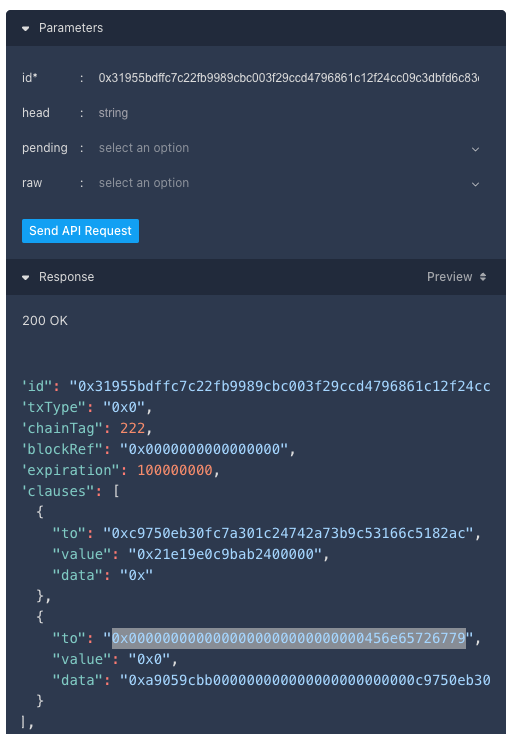
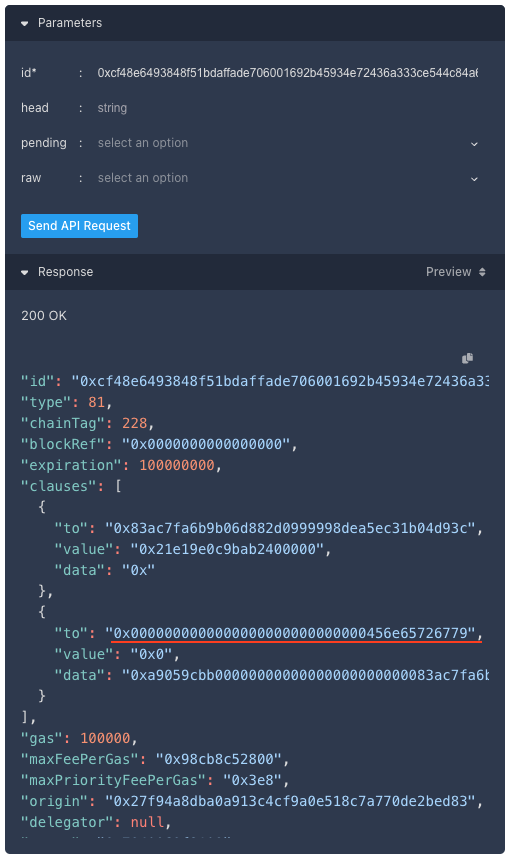
update thor galactica info (#7)
* update thor galactica info

* add info to start the node with custom genesis

diff --git a/.github/docs/README.md b/.github/docs/README.md
@@ -2,14 +2,24 @@
 
 This documentation is a work in progress and will be updated as new features are added.
 
-With the Galactica hardfork, the following API endpoints and flags are introduced.
+## Key concepts
+
+| Name | Description |
+|------|-------------|
+| **MaxFeePerGas** | The maximum total gas price a user is willing to pay for their transaction. |
+| **MaxPriorityFeePerGas** | The maximum tip a user is willing to pay validators to prioritize their transaction. |
+| **EffectiveGasPrice** | The final gas price charged when the transaction was executed. |
+| **EffectivePriorityPrice** | The final tip amount paid to the validator who included the transaction. |
+| **BaseFeePerGas** | The minimum gas price required for a transaction to be included in the current block.|
+
 
 ## Endpoints
 
-- `fees/history`: Similar to [`eth_feeHistory`](https://docs.metamask.io/services/reference/ethereum/json-rpc-methods/eth_feehistory/), this endpoint allows you to retrieve information about a range of block base fees and gas used ratios.
+- `fees/history`: Similar to [`eth_feeHistory`](https://docs.metamask.io/services/reference/ethereum/json-rpc-methods/eth_feehistory/), this endpoint allows you to retrieve information about a range of block base fees, gas used ratios and reward.
 
     _Request parameters_:
 
+    - `rewardPercentiles`: The percentiles of the rewards to be returned. Each percentile value must be between 0 and 100 and in ascending order. Values should be comma-separated. *For example: ?rewardPercentiles=25,50,75*
     - `blockCount`: The number of blocks to retrieve.
     - `newestBlock`: The highest block number to retrieve, its value is a `revision` following the existing VeChainThor endpoints.
 
@@ -17,10 +27,11 @@ With the Galactica hardfork, the following API endpoints and flags are introduce
     The range might not necessarily be `newestBlock` - `blockCount` if the oldest block does not exist or is not included due to the backtrace limit (see flags below for more details about this limit). `blockCount` can be higher than the backtrace limit, but the response will include only values within the valid range.
 
     - `oldestBlock`: The oldest block in the requested range.
-    - `baseFees`: An array of block base fees for the requested range.
-    - `gasUsedRatios`: An array of gas ratios (block gas used divided by the block gas limit) for the requested range.
+    - `baseFeePerGas`: An array of block base fees for the requested range.
+    - `gasUsedRatio`: An array of gas ratios (block gas used divided by the block gas limit) for the requested range.
+    - `reward`: An array of arrays of rewards by the percentiles provided in the request via *rewardPercentiles*. Each inner array contains the reward values for each percentile requested.
 
-- `fees/priority`: Similar to [`eth_maxPriorityFeePerGas`](https://docs.metamask.io/services/reference/ethereum/json-rpc-methods/eth_maxpriorityfeepergas/), this endpoint suggests a tip that is sufficient to be included as the `maxPriorityFeePerGas` value in a transaction, ensuring it is included in the closest possible block.
+- `fees/priority`: Similar to [`eth_maxPriorityFeePerGas`](https://docs.metamask.io/services/reference/ethereum/json-rpc-methods/eth_maxpriorityfeepergas/), this endpoint recommends an optimal tip value to use as `maxPriorityFeePerGas` in a transaction. Setting this recommended tip increases the likelihood of swift block inclusion.
 
     _Response parameters_:
     - `maxPriorityFeePerGas`: The tip value to be used as the `maxPriorityFeePerGas` in a transaction (also to be considered for `maxFeePerGas` since it is the block base fee plus this tip).

diff --git a/.github/genesis.md b/.github/genesis.md
@@ -48,21 +48,33 @@ The expected output files are located within the `custom-net` folder (or the dir
 
 ## How to Run a Node with the Genesis File
 
-This section provides instructions on how to run a node using the generated file. We assume that:
-1. The folder name is `custom-net`. Please change it accordingly if you provided a different one.
-2. You have built the binary [as described here](https://github.com/vechain/thor/blob/master/docs/build.md) under the `thor` submodule.
-3. You are running everything from the root of the repository.
+This section provides instructions on how to run a node using the generated file. We assume that the folder name is `custom-net`. Please change it accordingly if you provided a different one.
+
+### Binary
+- Clone the [Thor](https://github.com/vechain/thor) repo
+- Compile the binaries [as described here](https://github.com/vechain/thor/blob/master/docs/build.md)
+- Run for:
+    - solo: `./thor/bin/thor solo --genesis custom-net/genesis.json`
+    - custom network: `./thor/bin/thor --network custom-net/genesis.json`
+
+### Docker
+- Pull the image `docker pull ghcr.io/vechain/thor:release-galactica-latest`
+- Run for:
+    - solo: 
+    ```bash
+    docker run -d \
+        -v /path/to/custom-net:/custom-net \
+        -p 8669:8669 \
+        -p 11235:11235 \
+        ghcr.io/vechain/thor:release-galactica-latest solo --genesis /custom-net/genesis.json
+    ```
+    - custom network:
+    ```bash
+    docker run -d \
+        -v /path/to/custom-net:/custom-net \
+        -p 8669:8669 \
+        -p 11235:11235 \
+        ghcr.io/vechain/thor:release-galactica-latest --network /custom-net/genesis.json
+    ```
 
 You can also provide a URL with the location of the genesis file, like the one in [this example](https://raw.githubusercontent.com/vechain/thor/master/genesis/example.json).
-
-### Solo
-
-```bash
-./thor/bin/thor --genesis custom-net/genesis.json
-```
-
-### Custom Network
-
-```bash
-./thor/bin/thor --network custom-net/genesis.json
-```

diff --git a/.github/faucet/README.md b/.github/faucet/README.md
@@ -6,7 +6,7 @@ The main prerequisite is to have a wallet, such as [VeWorld](https://chromewebst
 
 ## Devnet
 
-We will be using this [custom faucet](https://d2j01c6f35ybnl.cloudfront.net/).
+We will be using this [custom faucet](https://faucet-galactica.dev.node.vechain.org/).
 
 1. Once you are in the website, click `Connect`, that will open the VeWorld extension.
 2. After that, click `Sign` to `Sign Certificate`:
@@ -17,7 +17,7 @@ We will be using this [custom faucet](https://d2j01c6f35ybnl.cloudfront.net/).
 
    <img src="faucet-devnet-tx.png" alt="Faucet transaction" style="width: 60%; max-width: 600px;">
 
-4. And if [you check the API](https://galactica.green.dev.node.vechain.org/doc/stoplight-ui/#/paths/transactions-id/get) using that ID you will see 2 clauses, the first one for the VET transfer and the second one for the VTHO one (`0x0000000000000000000000000000456e65726779` is the VTHO contract address):
+4. And if [you check the API](https://galactica.live.dev.node.vechain.org/doc/stoplight-ui/#/paths/transactions-id/get) using that ID you will see 2 clauses, the first one for the VET transfer and the second one for the VTHO one (`0x0000000000000000000000000000456e65726779` is the VTHO contract address):
 
    <img src="faucet-devnet-api.png" alt="Faucet Api Call" style="width: 60%; max-width: 600px;">
 
